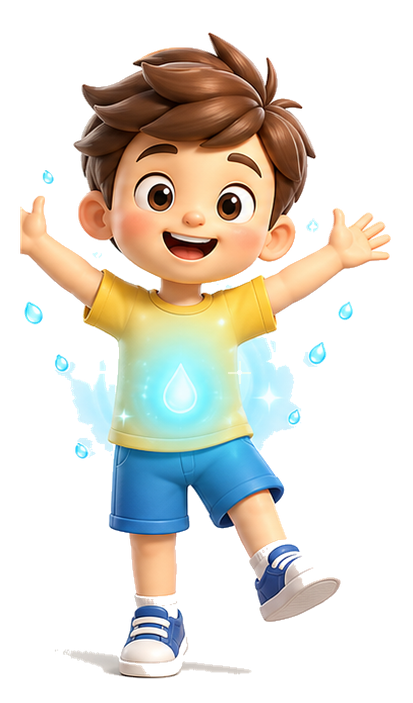
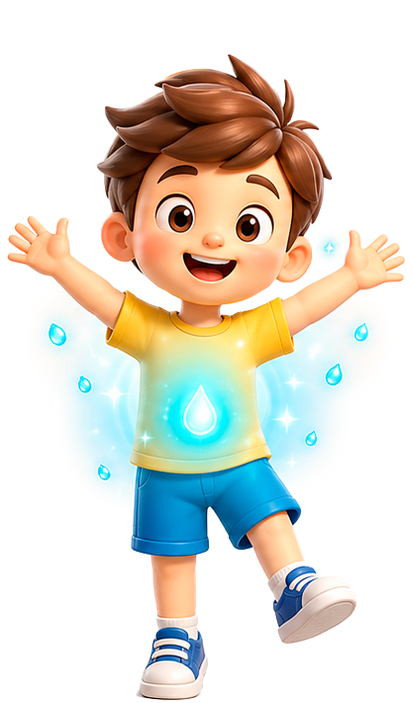
# hydration ilustration updated in all games and sections

diff --git a/apps/finish-hydration/index.html b/apps/finish-hydration/index.html
@@ -41,10 +41,7 @@
         min-height: 100vh;
         font-family: "Avenir Next", Avenir, "Trebuchet MS", sans-serif;
         color: var(--ink);
-        background:
-          linear-gradient(115deg, rgba(207, 63, 50, 0.26), transparent 38%),
-          linear-gradient(245deg, rgba(47, 107, 71, 0.28), transparent 42%),
-          linear-gradient(180deg, var(--stage), var(--stage-deep));
+        background: transparent;
         overflow: hidden;
       }
 
@@ -64,6 +61,13 @@
         min-height: 100vh;
         place-items: center;
         padding: clamp(18px, 5vw, 64px);
+        background: linear-gradient(
+          180deg,
+          rgba(5, 5, 5, 0.72) 0%,
+          rgba(5, 5, 5, 0.16) 26%,
+          rgba(5, 5, 5, 0.16) 74%,
+          rgba(5, 5, 5, 0.72) 100%
+        );
         isolation: isolate;
       }
 
@@ -88,7 +92,7 @@
         background:
           linear-gradient(78deg, transparent 0 36%, rgba(255, 203, 77, 0.24) 37%, transparent 49%),
           linear-gradient(282deg, transparent 0 38%, rgba(207, 63, 50, 0.2) 39%, transparent 52%);
-        opacity: 0.8;
+        opacity: 0.58;
       }
 
       .celebration-start {
@@ -99,7 +103,7 @@
         flex-direction: column;
         align-items: center;
         justify-content: center;
-        gap: clamp(22px, 4vh, 40px);
+        gap: max(200px, 18vh);
         transition:
           opacity 150ms ease,
           transform 150ms ease,
@@ -159,7 +163,7 @@
 
       .progress-bar-gif {
         display: block;
-        width: 70vw;
+        width: 100vw;
         max-width: none;
         height: auto;
         object-fit: contain;
@@ -170,10 +174,10 @@
         inset: 0;
         width: 100%;
         height: 100%;
-        padding: clamp(10px, 2.5vw, 28px);
-        object-fit: contain;
+        padding: 0;
+        object-fit: cover;
         object-position: center;
-        background: #050505;
+        background: #fff;
         opacity: 0;
         visibility: hidden;
         transform: scale(0.985);
@@ -213,19 +217,19 @@
       html.is-embedded .stage {
         min-height: 0;
         height: 100vh;
-        padding: clamp(12px, 3vw, 32px);
+        padding: clamp(12px, 3vw, 32px) 0;
       }
 
       html.is-embedded .celebration-gif {
-        padding: clamp(6px, 1.8vw, 18px);
+        padding: 0;
       }
 
       html.is-embedded .celebration-start {
-        gap: clamp(14px, 3vh, 28px);
+        gap: max(200px, 18vh);
       }
 
       html.is-embedded .progress-bar-gif {
-        width: 70vw;
+        width: 100vw;
       }
 
       @keyframes buttonPulse {
@@ -253,11 +257,11 @@
 
         .celebration-start {
           width: 100%;
-          gap: 20px;
+          gap: 200px;
         }
 
         .progress-bar-gif {
-          width: 78vw;
+          width: 100vw;
         }
       }
 
@@ -281,7 +285,7 @@
         </button>
         <img
           class="progress-bar-gif"
-          src="./Progress-Bar-4%201.gif"
+          src="./Progress-Bar-4-transparent.gif"
           width="1920"
           height="450"
           alt=""

diff --git a/games/hydration-habitats/script.js b/games/hydration-habitats/script.js
@@ -28,7 +28,7 @@
           choice: "Soda, coffee, or energy drinks",
           short: "Low plain-water intake",
           score: 20,
-          image: "hydration-boy-01-dehydrated.png",
+          image: "Hydration 101-ilustration-1.png",
           imageAlt: "Dehydrated character",
           feedback: "Your body may be asking for more plain water.",
         },
@@ -39,7 +39,7 @@
           choice: "2 glasses of water",
           short: "A small water baseline",
           score: 45,
-          image: "hydration-boy-02-thirsty.png",
+          image: "Hydration 101-ilustration-2.png",
           imageAlt: "Thirsty character",
           feedback: "You have a start. Add one more water break.",
         },
@@ -50,7 +50,7 @@
           choice: "8 glasses of water",
           short: "Strong fluid rhythm",
           score: 78,
-          image: "hydration-boy-04-retaining.png",
+          image: "Hydration 101-ilustration-4.png",
           imageAlt: "Recovering hydrated character",
           feedback: "Strong routine. Heat, activity, and sweat can change mineral needs.",
         },
@@ -61,7 +61,7 @@
           choice: "Plenty of water + Re-Lyte",
           short: "Water plus electrolytes",
           score: 100,
-          image: "hydration-boy-05-hydrated.png",
+          image: "Hydration 101-ilustration-5.png",
           imageAlt: "Hydrated character",
           feedback: "Water plus electrolytes can support hydration balance.",
         },
@@ -111,7 +111,7 @@
           choice: "Soda, cafe o energeticas",
           short: "Poca agua simple",
           score: 20,
-          image: "hydration-boy-01-dehydrated.png",
+          image: "Hydration 101-ilustration-1.png",
           imageAlt: "Personaje deshidratado",
           feedback: "Tu cuerpo podria necesitar mas agua simple.",
         },
@@ -122,7 +122,7 @@
           choice: "2 vasos de agua",
           short: "Una base pequena de agua",
           score: 45,
-          image: "hydration-boy-02-thirsty.png",
+          image: "Hydration 101-ilustration-2.png",
           imageAlt: "Personaje con sed",
           feedback: "Ya tienes un inicio. Agrega otra pausa de agua.",
         },
@@ -133,7 +133,7 @@
           choice: "8 vasos de agua",
           short: "Buen ritmo de fluidos",
           score: 78,
-          image: "hydration-boy-04-retaining.png",
+          image: "Hydration 101-ilustration-4.png",
           imageAlt: "Personaje recuperando hidratacion",
           feedback: "Buen ritmo. El calor, la actividad y el sudor cambian tus minerales.",
         },
@@ -144,7 +144,7 @@
           choice: "Bastante agua + Re-Lyte",
           short: "Agua mas electrolitos",
           score: 100,
-          image: "hydration-boy-05-hydrated.png",
+          image: "Hydration 101-ilustration-5.png",
           imageAlt: "Personaje hidratado",
           feedback: "Agua mas electrolitos apoya el balance de hidratacion.",
         },

diff --git a/games/electrolyte-matching/script.js b/games/electrolyte-matching/script.js
@@ -59,31 +59,31 @@
 
   const johnnyFrames = [
     {
-      src: "../../assets/imgs/png/re-lyte-rescue/hydration-boy-01-dehydrated.png",
+      src: "../../assets/imgs/png/re-lyte-rescue/Hydration 101-ilustration-1.png",
       alt: "Johnny needs hydration",
       label: "Ready",
       copy: "Start by choosing an electrolyte.",
     },
     {
-      src: "../../assets/imgs/png/re-lyte-rescue/hydration-boy-02-thirsty.png",
+      src: "../../assets/imgs/png/re-lyte-rescue/Hydration 101-ilustration-2.png",
       alt: "Johnny is getting thirsty",
       label: "Started",
       copy: "One electrolyte is in place.",
     },
     {
-      src: "../../assets/imgs/png/re-lyte-rescue/hydration-boy-03-recovering.png",
+      src: "../../assets/imgs/png/re-lyte-rescue/Hydration 101-ilustration-3.png",
       alt: "Johnny is recovering hydration",
       label: "Recovering",
       copy: "The mix is starting to work.",
     },
     {
-      src: "../../assets/imgs/png/re-lyte-rescue/hydration-boy-04-retaining.png",
+      src: "../../assets/imgs/png/re-lyte-rescue/Hydration 101-ilustration-4.png",
       alt: "Johnny is retaining hydration",
       label: "Retaining",
       copy: "Johnny is holding onto more hydration.",
     },
     {
-      src: "../../assets/imgs/png/re-lyte-rescue/hydration-boy-05-hydrated.png",
+      src: "../../assets/imgs/png/re-lyte-rescue/Hydration 101-ilustration-5.png",
       alt: "Johnny is hydrated",
       label: "Hydrated",
       copy: "Almost every electrolyte role is matched.",

diff --git a/games/re-lyte-rescue/script.js b/games/re-lyte-rescue/script.js
@@ -29,27 +29,27 @@ const SIP_POWER = [22, 30, 38, 46, 54];
 const CHARACTER_STATES = [
   {
     id: "dehydrated",
-    src: "../../assets/imgs/png/re-lyte-rescue/hydration-boy-01-dehydrated.png",
+    src: "../../assets/imgs/png/re-lyte-rescue/Hydration 101-ilustration-1.png",
     alt: "Dehydrated boy looking tired",
   },
   {
     id: "thirsty",
-    src: "../../assets/imgs/png/re-lyte-rescue/hydration-boy-02-thirsty.png",
+    src: "../../assets/imgs/png/re-lyte-rescue/Hydration 101-ilustration-2.png",
     alt: "Thirsty boy asking for water",
   },
   {
     id: "recovering",
-    src: "../../assets/imgs/png/re-lyte-rescue/hydration-boy-03-recovering.png",
+    src: "../../assets/imgs/png/re-lyte-rescue/Hydration 101-ilustration-3.png",
     alt: "Boy beginning to recover hydration",
   },
   {
     id: "retaining",
-    src: "../../assets/imgs/png/re-lyte-rescue/hydration-boy-04-retaining.png",
+    src: "../../assets/imgs/png/re-lyte-rescue/Hydration 101-ilustration-4.png",
     alt: "Boy retaining hydration and smiling",
   },
   {
     id: "hydrated",
-    src: "../../assets/imgs/png/re-lyte-rescue/hydration-boy-05-hydrated.png",
+    src: "../../assets/imgs/png/re-lyte-rescue/Hydration 101-ilustration-5.png",
     alt: "Fully hydrated boy celebrating",
   },
 ];

diff --git a/games/re-lyte-rescue/index.html b/games/re-lyte-rescue/index.html
@@ -242,7 +242,7 @@
               <img
                 id="character-sprite"
                 class="character-sprite"
-                src="../../assets/imgs/png/re-lyte-rescue/hydration-boy-01-dehydrated.png"
+                src="../../assets/imgs/png/re-lyte-rescue/Hydration 101-ilustration-1.png"
                 alt="Thirsty boy waiting for hydration"
               />
               <div class="chest-pulse" aria-hidden="true"></div>

diff --git a/games/hydration-habitats/index.html b/games/hydration-habitats/index.html
@@ -113,7 +113,7 @@
               <img
                 id="character-img"
                 class="character"
-                src="../../assets/imgs/png/re-lyte-rescue/hydration-boy-01-dehydrated.png"
+                src="../../assets/imgs/png/re-lyte-rescue/Hydration 101-ilustration-1.png"
                 alt="Dehydrated character"
               />
             </div>

diff --git a/games/electrolyte-matching/index.html b/games/electrolyte-matching/index.html
@@ -94,7 +94,7 @@
             <img
               id="johnny-img"
               class="johnny-img"
-              src="../../assets/imgs/png/re-lyte-rescue/hydration-boy-01-dehydrated.png"
+              src="../../assets/imgs/png/re-lyte-rescue/Hydration 101-ilustration-1.png"
               alt="Johnny needs hydration"
             />
 
